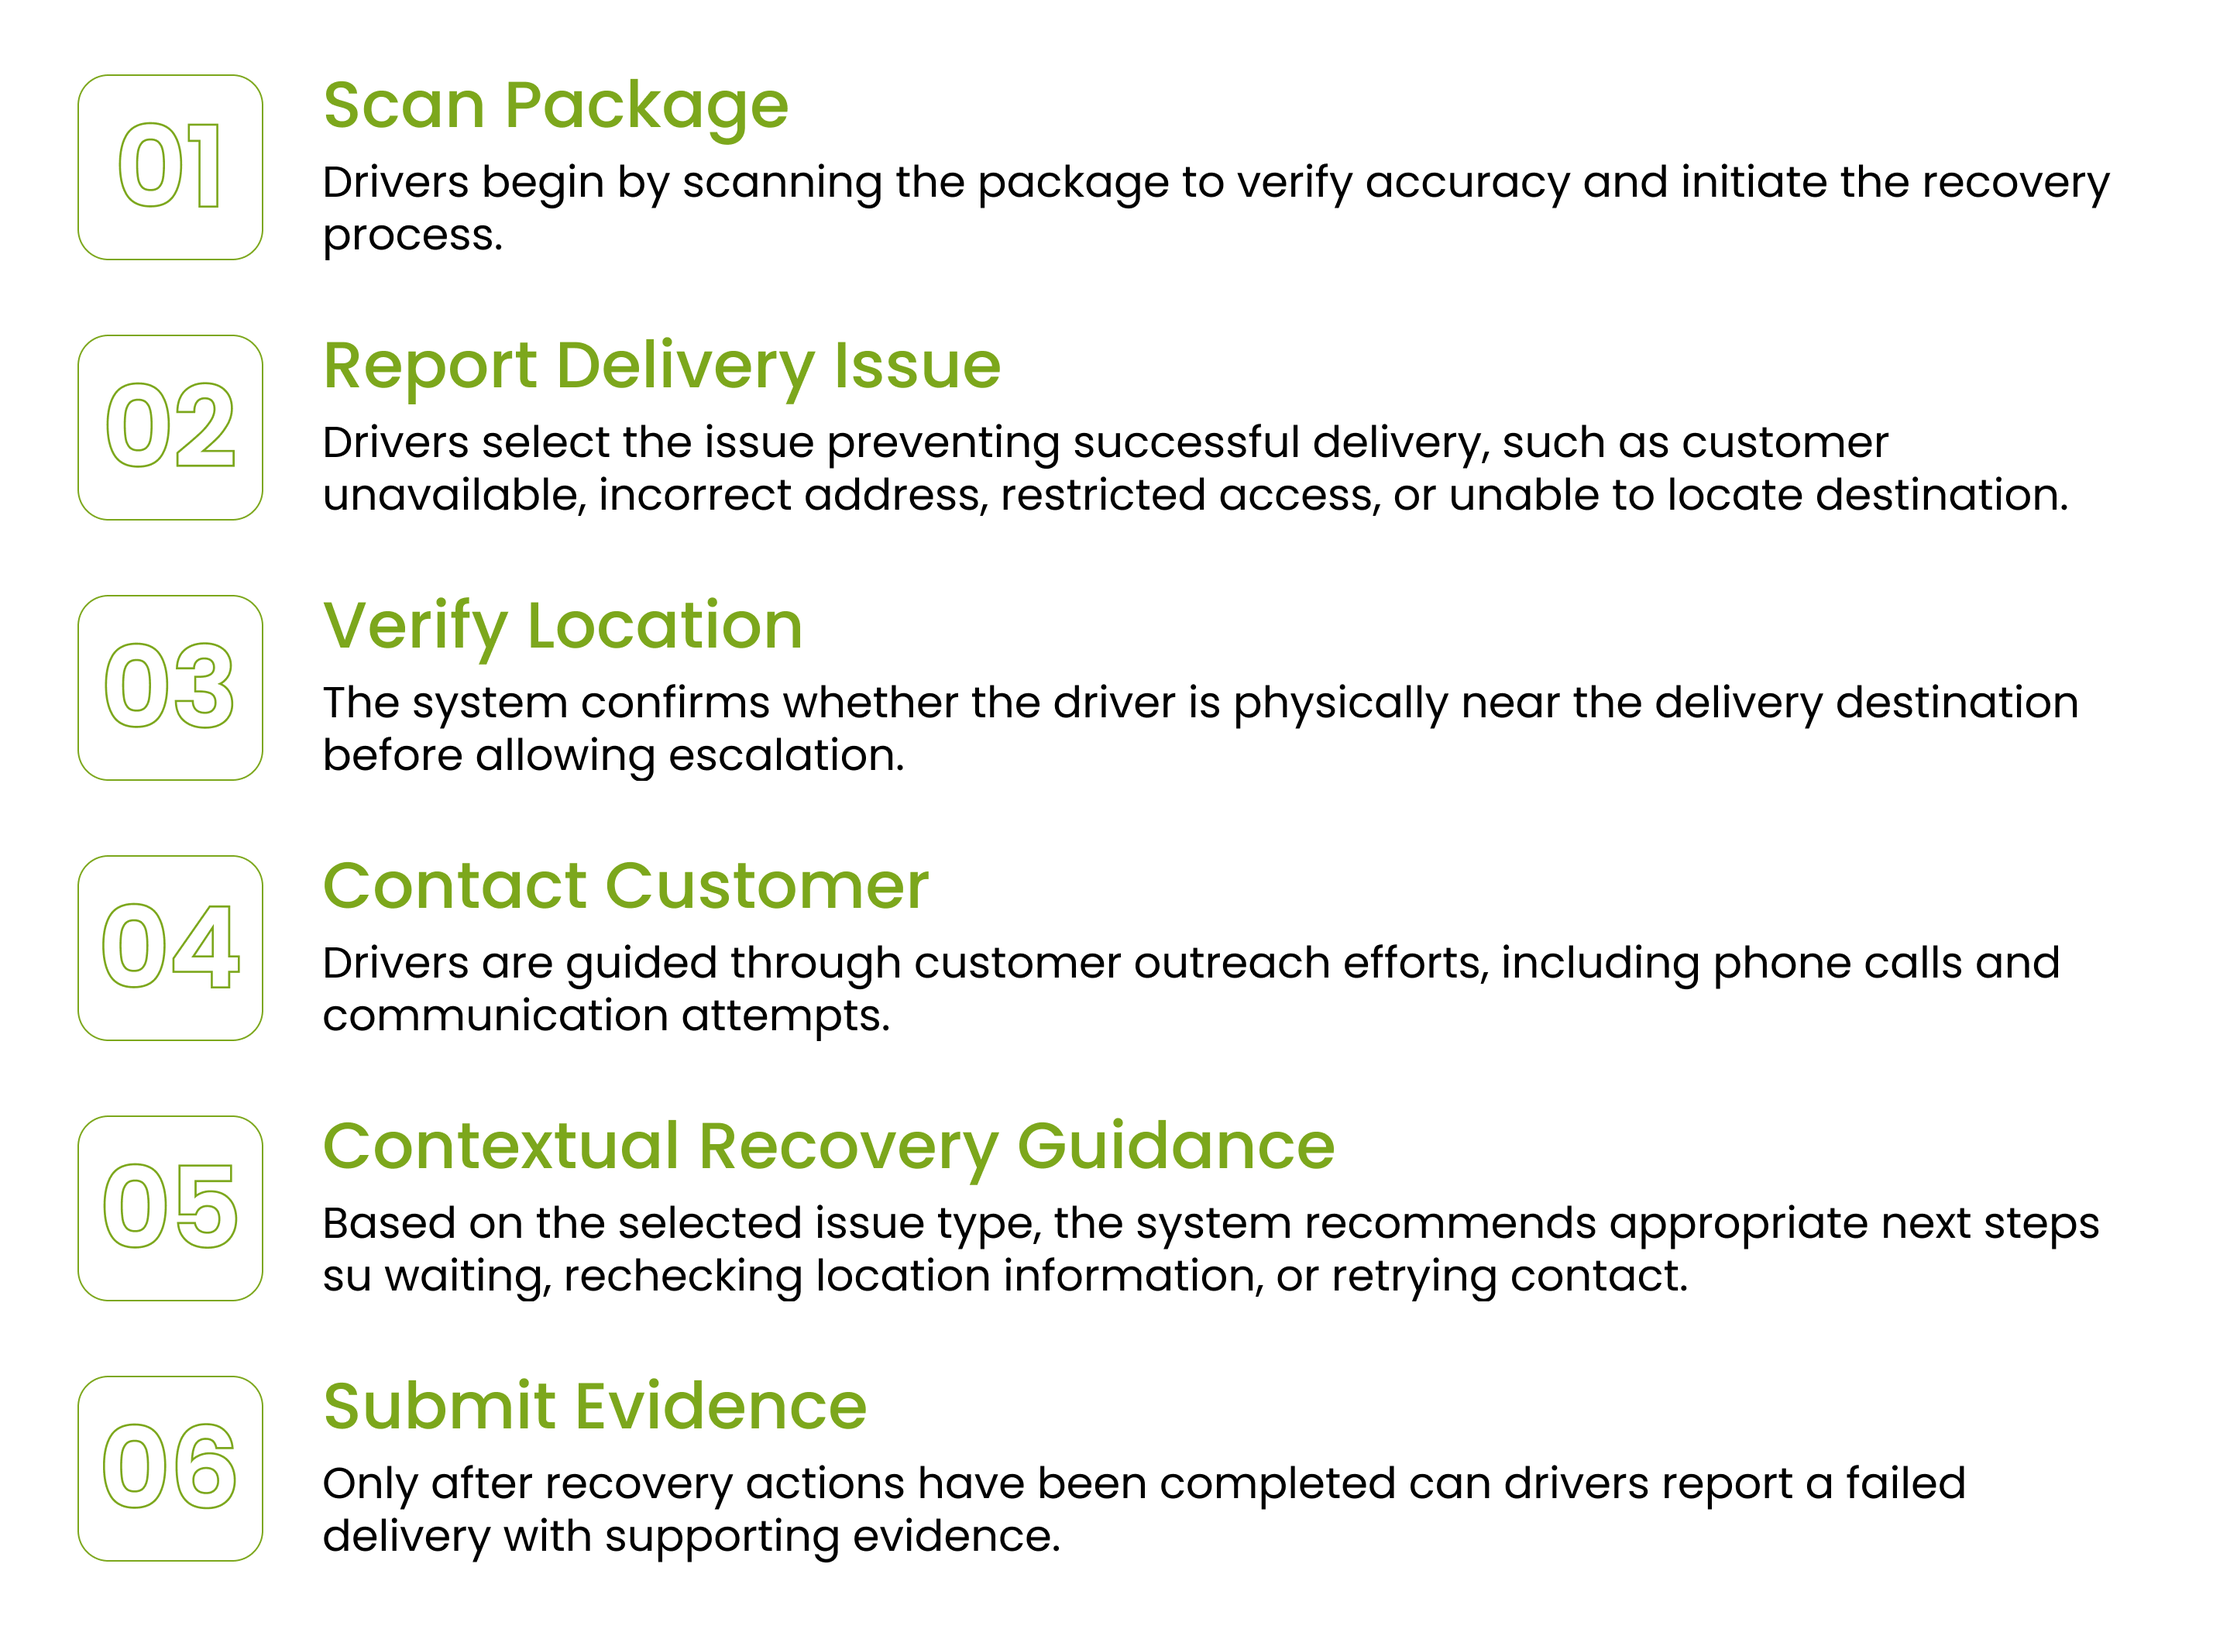
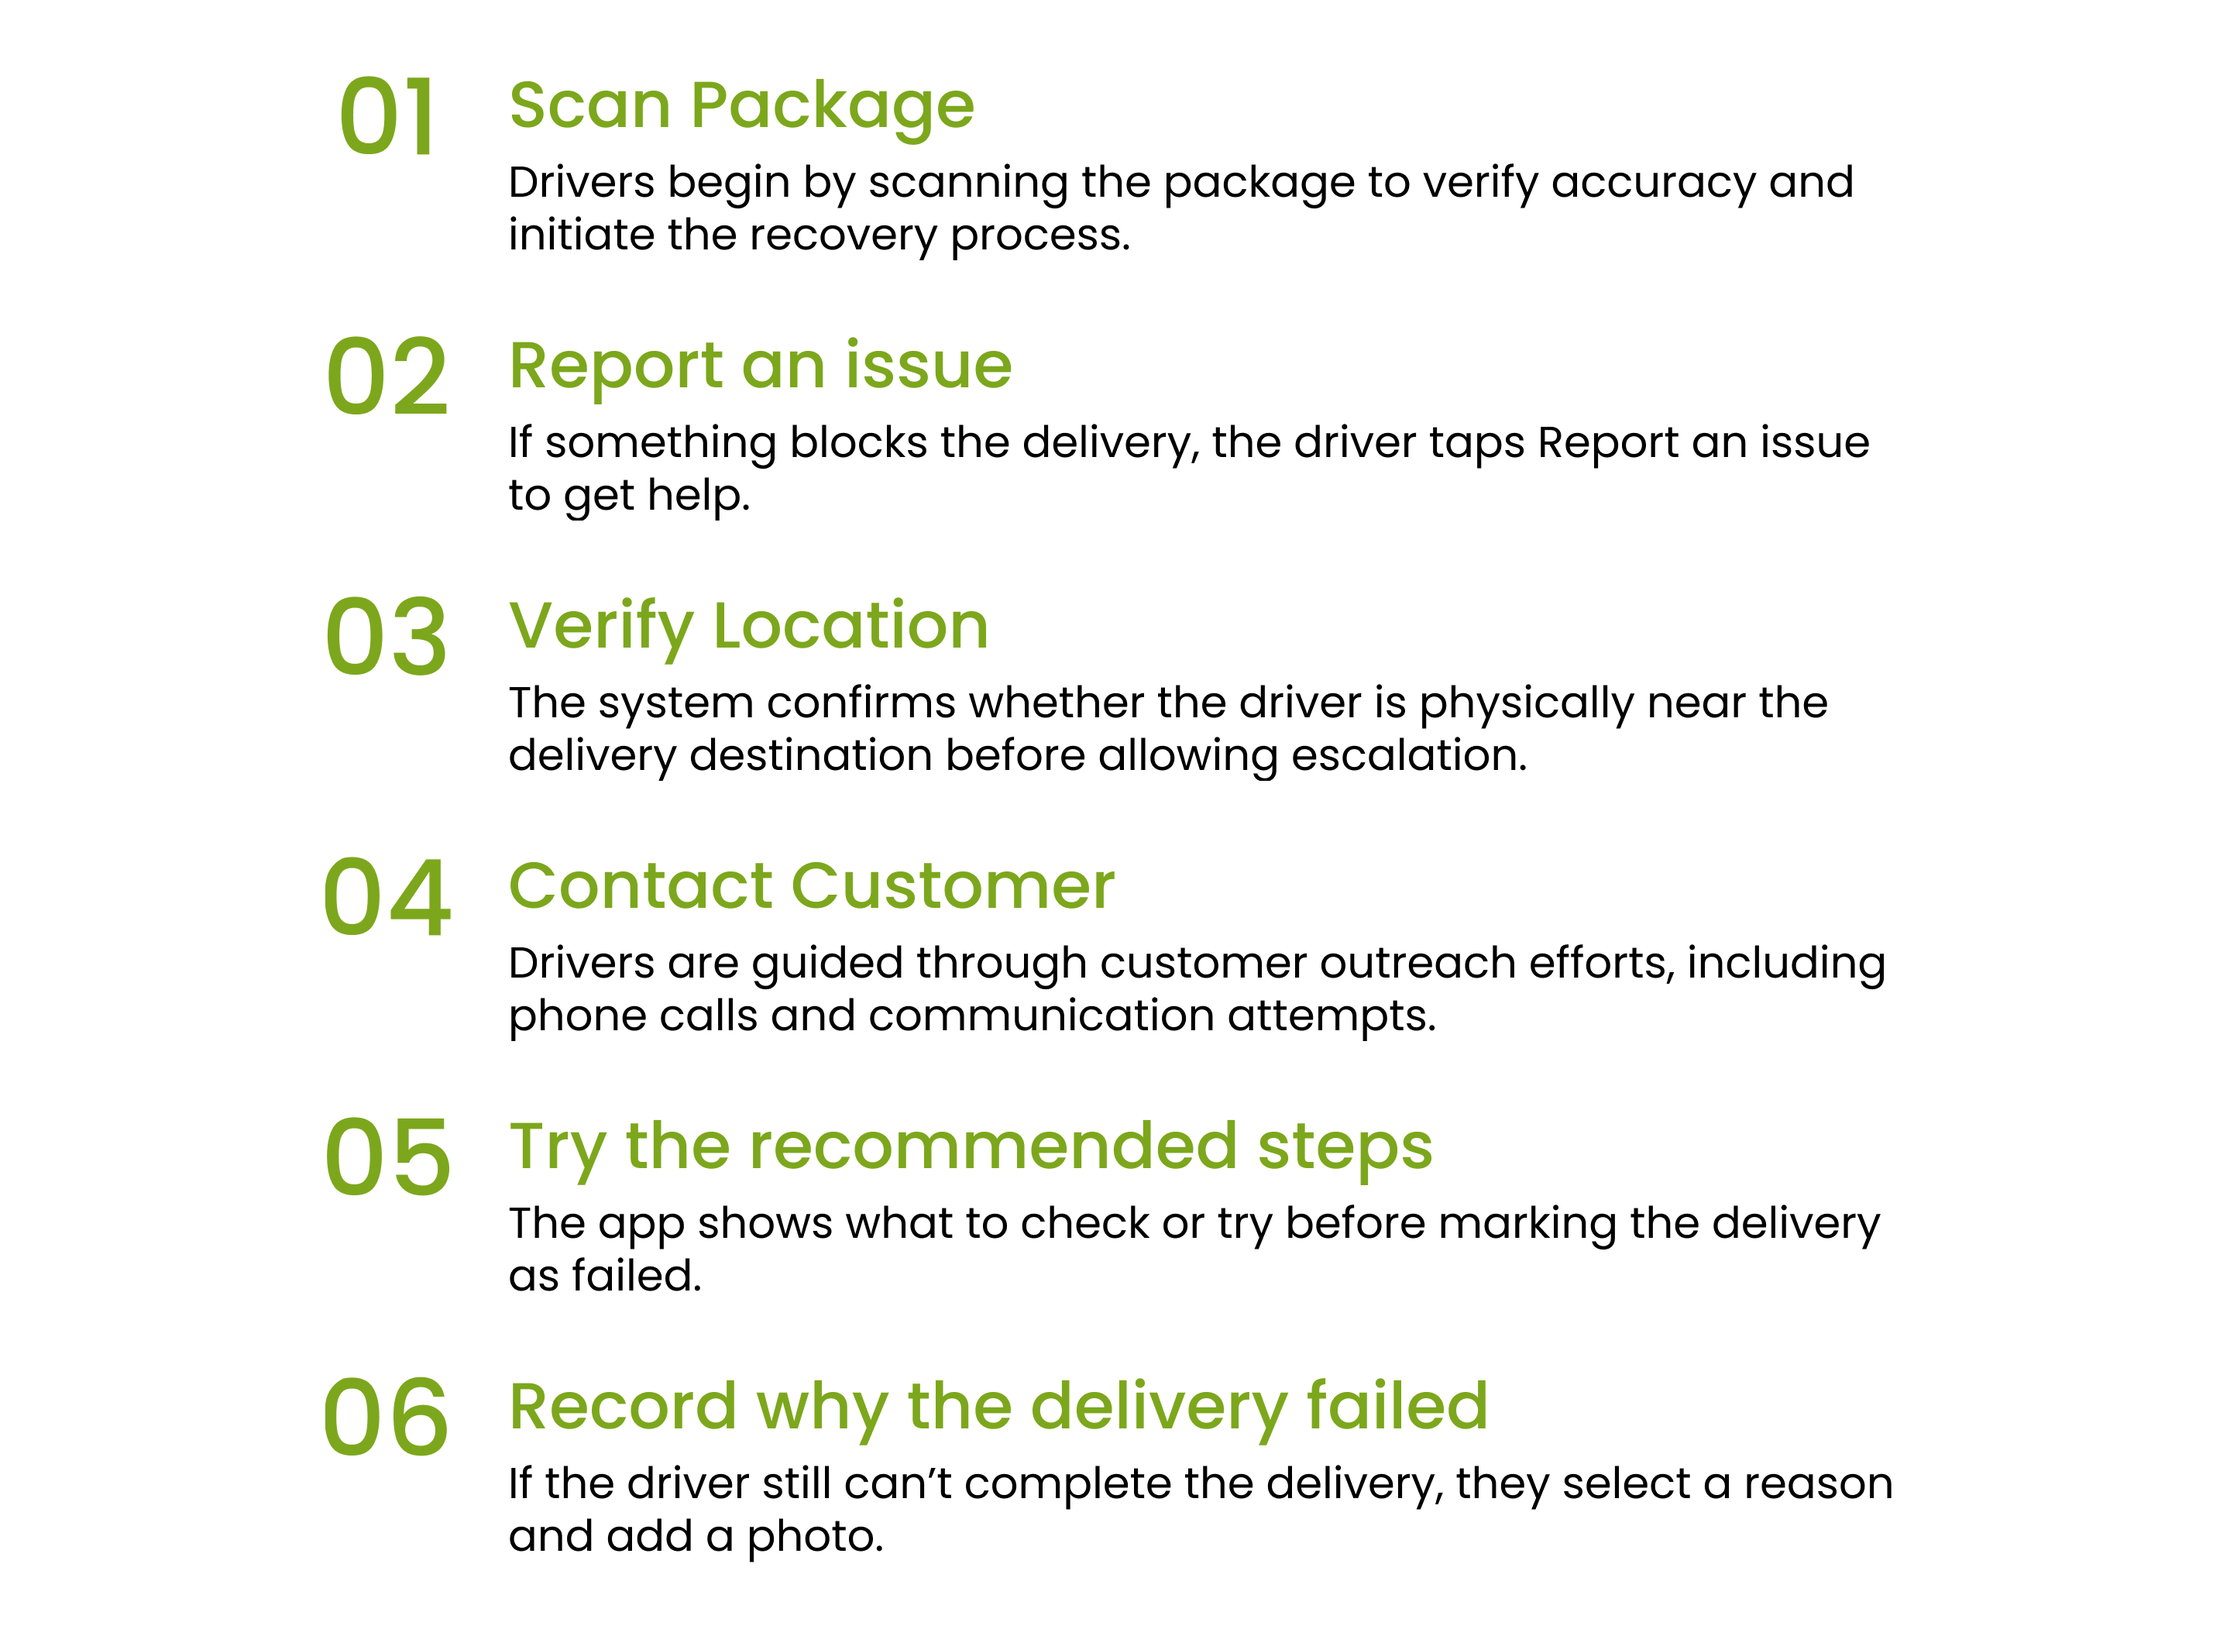
Revise driver case study narrative, images, and layout

diff --git a/src/App.jsx b/src/App.jsx
@@ -23,11 +23,8 @@ import loyaltyNewSystemImage from './assets/Loyalty-new-system.png'
 import loyaltySurveyImage from './assets/loyalty-survey.png'
 import failedDeliveryThumbnail from './assets/failed-delivery-recovery-thumbnail.png'
 import firstTimeUserHomeWalletImage from './assets/first-time-user-home-wallet.png'
-import businessContextImage from './assets/failed-delivery-recovery-business-context.png'
 import problemStatementImage from './assets/failed-delivery-recovery-problem-statment.png'
-import designPrincipleImage from './assets/failed-delivery-design-principle.png'
 import failedDeliveryKeyExperience from './assets/failed-delivery-key-experience.png'
-import failedDeliveryOutcome from './assets/failed-delivery-recovery-outcome.png'
 import designFlowImage from './assets/failed-delivery-design-flow.png'
 import newUserHomeStoreSelectorImage from './assets/New-user-home-1-store-selector.png'
 import newUserHomeValuePropositionsImage from './assets/New-user-home-value-propositions-final.png'
@@ -491,12 +488,19 @@ function CasePage({ item, navigate }) {
           </div>
 
           <h1 className="display max-w-5xl text-6xl font-semibold lg:text-9xl">
-            {item.title}
+            {item.id === 'driver' ? 'Failed Delivery Recovery' : item.title}
           </h1>
 
-          <p className="mt-8 max-w-2xl text-xl text-black/60 lg:text-2xl">
-            {item.subtitle}
-          </p>
+          {item.id === 'driver' ? (
+            <p className="mt-8 text-xl text-black lg:text-2xl">
+              Helping Weee! drivers resolve delivery issues at the stop.<br />
+              ~1.11% → 0.82% delivery failure rate after the redesign
+            </p>
+          ) : (
+            <p className="mt-8 max-w-2xl text-xl text-black/60 lg:text-2xl">
+              {item.subtitle}
+            </p>
+          )}
 
           <div className="mt-16 grid gap-4 border-t border-black/20 pt-8 md:grid-cols-3">
             <div>
@@ -864,8 +868,10 @@ function DriverCaseStudy({ item }) {
     <div className="mx-auto max-w-[1200px] px-5 py-20 lg:px-10 lg:py-28">
       <CaseSection
         label="Executive Summary"
-        title="Transforming failed delivery reporting into a guided recovery experience."
-        body="As Weee! scaled its last-mile delivery network, failed deliveries became a growing operational challenge. Drivers frequently encountered unavailable customers, incorrect addresses, restricted access, or difficulties locating destinations. I led the redesign of the failed delivery workflow, helping drivers resolve delivery issues before abandoning an order."
+        bodyClassName="mt-6 w-full text-xl leading-relaxed text-black/60 dark:text-white/55 lg:w-[94%]"
+        titleClassName="max-w-4xl text-3xl font-semibold leading-[1.15] tracking-[-.035em] lg:text-6xl"
+        title="A clear next step when a delivery goes wrong"
+        body="I led the redesign of Weee!’s driver app workflow for delivery issues. When drivers tapped Report an issue, the app guided them through what to check and what to try next. If the delivery still failed, the report gave the operations team a clearer record of what happened."
       />
 
       <section className="grid gap-6 border-b border-black/15 py-16 lg:grid-cols-[220px_1fr]">
@@ -877,21 +883,13 @@ function DriverCaseStudy({ item }) {
 
   <div>
     <h2 className="max-w-4xl text-3xl font-semibold leading-[1.15] tracking-[-.035em] lg:text-6xl">
-      Failed deliveries were more than an operations problem.
+      One failed delivery created more work.
     </h2>
 
     <p className="mt-6 max-w-3xl text-xl leading-relaxed text-black/60">
-      Weee!'s delivery ecosystem depends on a seamless connection between
-      customers, operations teams, and delivery drivers. As delivery volume
-      increased, failed deliveries became one of the most expensive operational
-      inefficiencies.
+      A failed delivery could mean another trip, a refund, or a support request. For the customer, it meant waiting longer for their groceries.
     </p>
 
-    <img
-      src={businessContextImage}
-      alt="Failed Delivery Business Context"
-      className="mt-10 w-full rounded-[24px]"
-    />
   </div>
 </section>
 		
@@ -904,17 +902,21 @@ function DriverCaseStudy({ item }) {
 
   <div>
     <h2 className="max-w-4xl text-3xl font-semibold leading-[1.15] tracking-[-.035em] lg:text-6xl">
-      Drivers had no clear recovery process.
+      The building is locked. What should the driver do next?
     </h2>
 
     <p className="mt-6 max-w-3xl text-xl leading-relaxed text-black/60">
-      {item.problem}
+      When drivers arrived at a locked apartment entrance, some called the customer and others went to the leasing office. The app gave them no clear next step. The easiest option was to mark the delivery as failed and move on, so some deliveries that could have been completed were marked as failed.
+    </p>
+
+    <p className="mt-6 max-w-3xl text-xl leading-relaxed text-black/60">
+      The operations team could see that a delivery had failed, but the report rarely explained what happened at the stop. That made it hard to prepare for the same issue on a future delivery.
     </p>
 
     <img
       src={problemStatementImage}
       alt="Failed Delivery Problem Statement"
-      className="mt-10 w-full rounded-[24px]"
+      className="mx-auto mt-10 w-full max-w-[680px]"
     />
   </div>
 </section>
@@ -928,42 +930,31 @@ function DriverCaseStudy({ item }) {
 
   <div>
     <h2 className="max-w-4xl text-3xl font-semibold leading-[1.15] tracking-[-.035em] lg:text-6xl">
-      The issue was not driver behavior. It was the absence of a recovery framework.
+      Reporting a failure was the easiest option.
     </h2>
 
-    <div className="mt-12 rounded-[40px] bg-[#7CA71C] p-10 lg:p-16">
-      <p className="text-xs font-bold uppercase tracking-[.16em] text-white/50">
-        KEY INSIGHT
-      </p>
-
-      <h3 className="mt-8 text-4xl font-semibold leading-[1.08] tracking-[-.015em] text-white lg:text-5xl">
-        Drivers were not intentionally causing delivery failures. They simply lacked confidence and guidance when unexpected situations occurred.
-      </h3>
-    </div>
+    <p className="mt-6 max-w-3xl text-xl leading-relaxed text-black/60">
+      In regular business reviews, I saw that drivers handled similar delivery issues differently. Failure reports often gave the operations team too little detail to understand what happened at the stop.
+    </p>
   </div>
 </section>      
       
 		<section className="grid gap-6 border-b border-black/15 py-16 lg:grid-cols-[220px_1fr]">
   <div>
     <p className="text-xs font-bold uppercase tracking-[.16em] text-black/40">
-      DESIGN PRINCIPLES
+      DESIGN PRINCIPLE
     </p>
   </div>
 
   <div>
     <h2 className="max-w-4xl text-3xl font-semibold leading-[1.15] tracking-[-.035em] lg:text-6xl">
-      Guide drivers toward recovery before escalation.
+      Show drivers what to try before they report a failed delivery.
     </h2>
 
     <p className="mt-6 max-w-3xl text-xl leading-relaxed text-black/60">
-      {item.strategy}
+      When a driver taps Report an issue, the app guides them through what to check and what to try next. If they still can’t complete the delivery, the report captures the issue and a photo so the operations team can see what happened.
     </p>
 
-    <img
-      src={designPrincipleImage}
-      alt="Failed Delivery Design Principles"
-      className="mt-10 w-full rounded-[24px]"
-    />
   </div>
 </section>
 		
@@ -973,7 +964,7 @@ function DriverCaseStudy({ item }) {
        <h2 className="text-4xl font-semibold leading-[1.1] tracking-[-.045em] lg:text-6xl">
           A guided failed delivery recovery flow.
         </h2>
-        <p className="mt-6 max-w-4xl text-xl leading-relaxed text-black/60">
+        <p className="mt-6 w-full text-xl leading-relaxed text-black/60">
   I redesigned the experience around a structured recovery journey that
   verifies the package, identifies the issue, confirms location, guides
   customer contact, recommends next steps, and requires evidence before
@@ -1004,25 +995,17 @@ function DriverCaseStudy({ item }) {
 
   
   <h2 className="text-4xl font-semibold leading-[1.1] tracking-[-.045em] lg:text-6xl">
-    Measurable impact across drivers, customers, and operations.
+    Fewer failed deliveries. Clearer data on why they failed.
   </h2>
 
-  <p className="mt-6 max-w-4xl text-xl leading-relaxed text-black/60">
-    The guided recovery workflow improved consistency, reduced avoidable failed
-    deliveries, and created greater visibility into delivery exceptions across
-    the network.
+  <p className="mt-6 text-xl leading-relaxed text-black/60">
+    After the redesign, the delivery failure rate fell by about 26%. When a delivery still failed, the report captured the issue type and a photo, giving the operations team more detail on what went wrong and helping them prepare for future deliveries.
   </p>
 
-  <div className="mt-12 overflow-hidden rounded-[2rem]">
-    <img
-      src={failedDeliveryOutcome}
-      alt="Failed Delivery Recovery Outcome"
-      className="w-full"
-    />
-  </div>
+  <p className="mt-12 text-4xl font-semibold leading-[1.1] tracking-[-.045em] lg:text-6xl">~1.11% → 0.82%</p>
 </section>
 
-      <Learning text={item.learning}/>
+      <Learning text="The best time to help drivers is when they can still complete the delivery."/>
     </div>
   )
 }
@@ -1449,15 +1432,15 @@ function CaseIntro() {
   )
 }
 
-function CaseSection({ label, title, body }) {
+function CaseSection({ label, title, body, titleClassName, bodyClassName }) {
   return (
     <section className="grid gap-6 border-b border-black/15 py-16 dark:border-white/15 lg:grid-cols-[220px_1fr]">
       <div>
         <p className="text-xs font-bold uppercase tracking-[.16em] text-black/40 dark:text-white/40">{label}</p>
       </div>
       <div>
-        <h2 className="max-w-3xl text-3xl font-semibold leading-[1.15] tracking-[-.035em] lg:text-5xl">{title}</h2>
-        <p className="mt-6 max-w-2xl text-xl leading-relaxed text-black/60 dark:text-white/55">{body}</p>
+        <h2 className={titleClassName || "max-w-3xl text-3xl font-semibold leading-[1.15] tracking-[-.035em] lg:text-5xl"}>{title}</h2>
+        <p className={bodyClassName || "mt-6 max-w-2xl text-xl leading-relaxed text-black/60 dark:text-white/55"}>{body}</p>
       </div>
     </section>
   )
